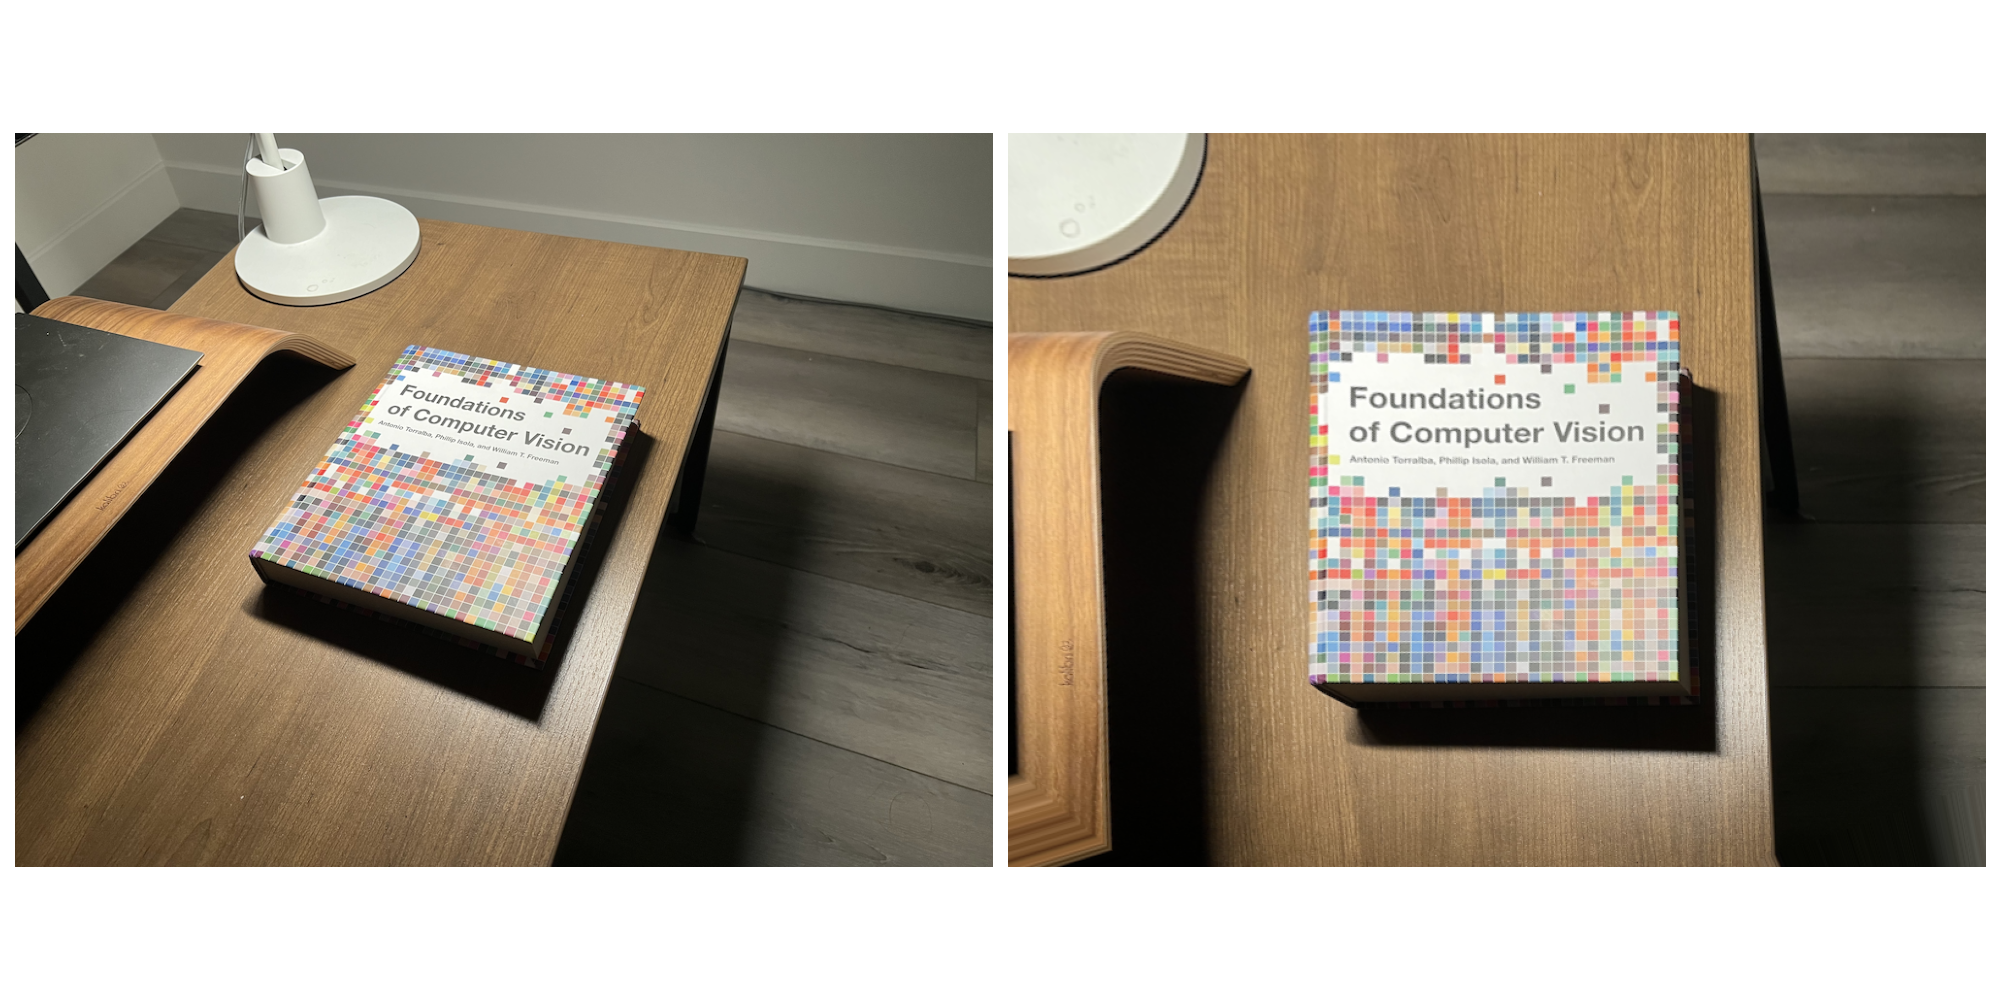
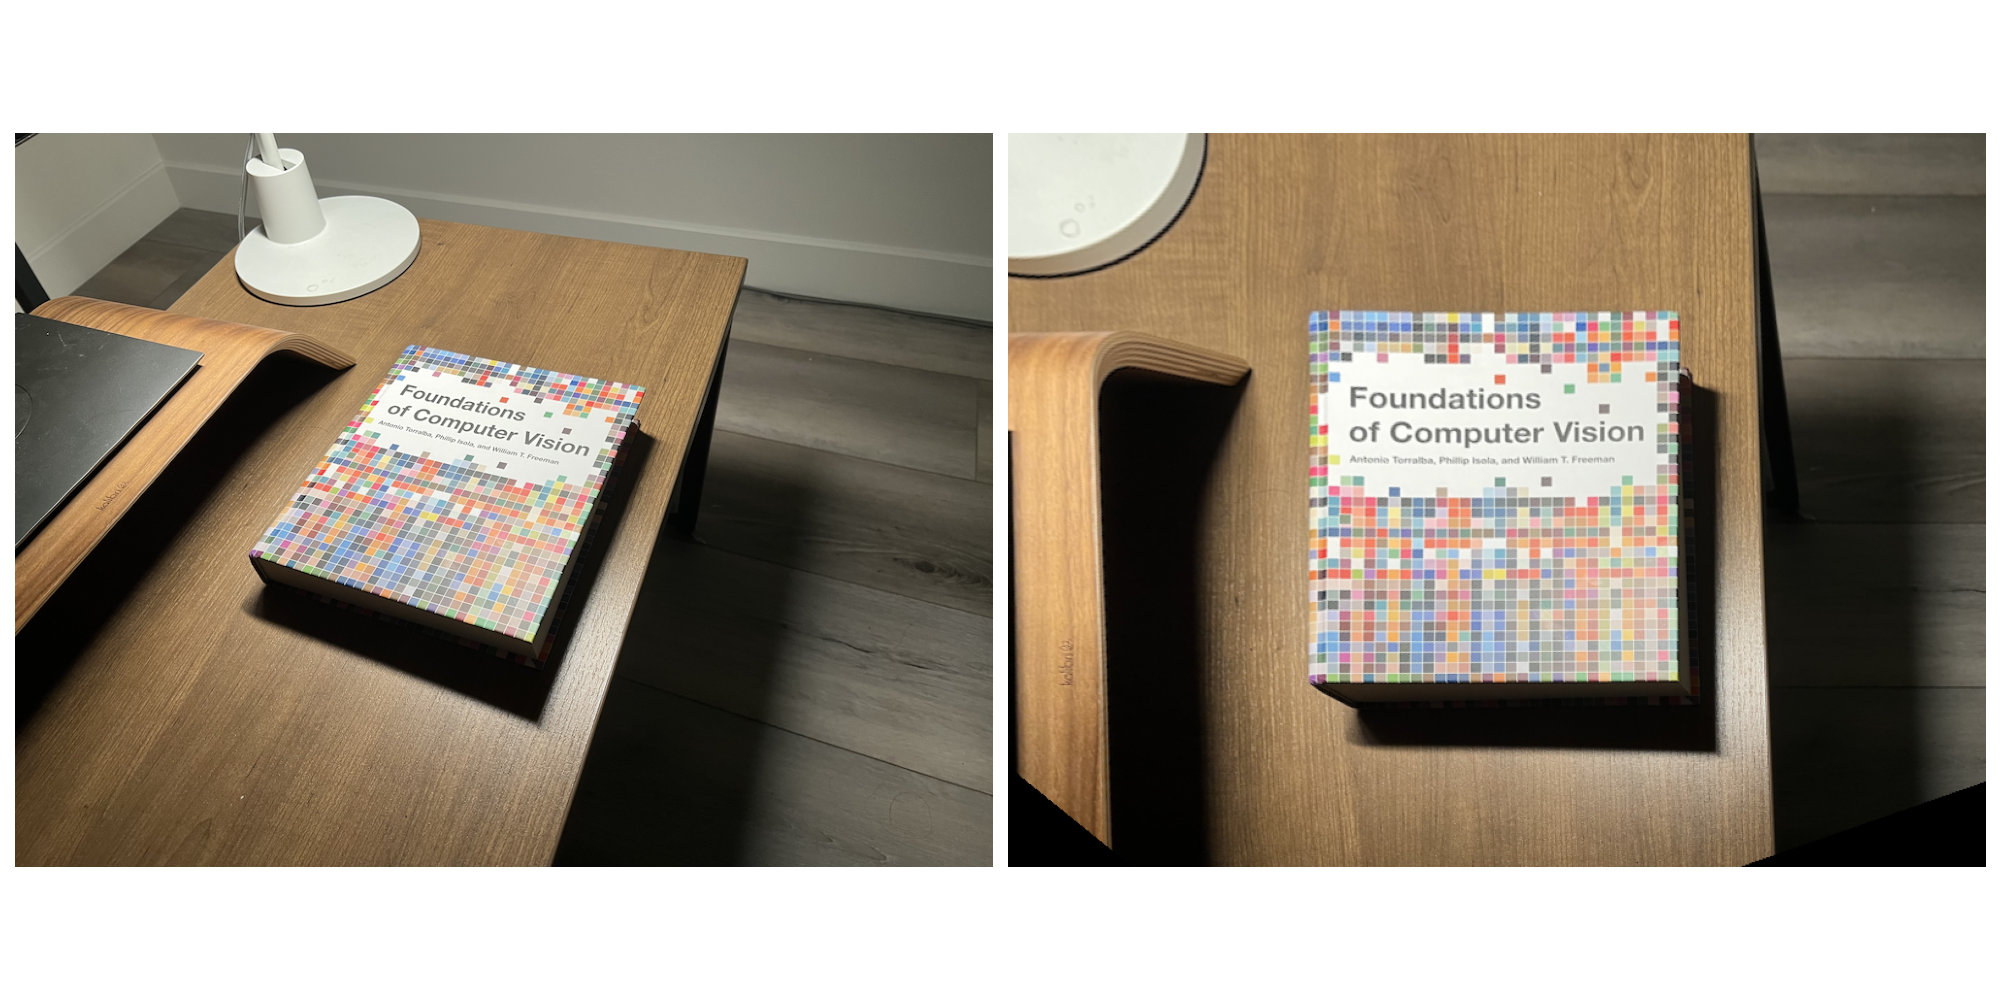
finished proj4 part b w/o bells and whistles

Changed region(s): [[0.961, 0.775, 1.0, 0.868], [0.496, 0.775, 0.558, 0.868], [0.868, 0.837, 0.899, 0.868]]

diff --git a/proj4/index.html b/proj4/index.html
@@ -68,6 +68,8 @@
         <div class="content has-text-justified">
           <p>
             In Part A of the project, I implemented image warping and mosaicing using perspective transformation (aka homography). Specifically, by spacifying image coordinate correspondences between two images, I can compute the 8 dof homography matrix between them, and use inverse warping and 2-band “Laplacian Stack” blending to produce an image mosaic. 
+
+            For Part B, I followed the paper <a href="https://inst.eecs.berkeley.edu/~cs180/fa24/hw/proj4/Papers/MOPS.pdf">Multi-Image Matching using Multi-Scale Oriented Patches” by Brown et al.</a> (with some simplification) and use automatic feature matching & RANSAC to compute the homography matrix between two images.
           </p>
         </div>
       </div>
@@ -131,7 +133,7 @@
         <h2 class="title is-3">Image Rectification</h2>
         <div class="content has-text-justified">
           <p>
-            With these, we are ready to rectify distorted squares/rectangles due to the angle I took the images. Below are two examples of rectification, one for rectifying the book cover for Foundations of Computer Vision, and another for rectifying the US Letter sized paper taped on the entrance of BAIR ... or should I say Berkeley Physics and Chemistry Lab. Note that the rectification is not perfect, and some parts of the rectified images are distorted. 
+            With these, we are ready to rectify distorted squares/rectangles due to the angle I took the images. Below are two examples of rectification, one for rectifying the book cover for Foundations of Computer Vision, and another for rectifying the US Letter sized paper taped on the entrance of BAIR ... or should I say Berkeley Physics and Chemistry Lab. 
           </p>
           <figure>
             <img src="static/images/parta/book_rectification.png"/>
@@ -170,6 +172,154 @@
   </div>
 </section>
 
+<section class="section hero"></section>
+  <div class="container is-max-desktop">
+    <div class="columns is-centered has-text-centered">
+      <div class="column is-four-fifths">
+        <h2 class="title is-3">Harris Corner Detector</h2>
+        <div class="content has-text-justified">
+          <p>
+            Harris corner detector uses the second moment matrix (the outer product of smoothed derivatives from convolving the image with a DoG filter) to find corners in the image. Specifically, we use the determinant of the second moment matrix divided by the trace of the matrix as a measure of cornerness. We threshold the measure with threshold \(10\) and discard corners within \(20\) pixels to the image boundaries. Below the leftmost plots are the harris corners overlaid on the original images. We see there are too many corners (on the magnitude of 10k).
+          </p>
+          <figure>
+            <img src="static/images/partb/balcony_corners.png" style="width: 300%;"/>
+            <figcaption>Corners for Balcony View. Left: Harris Corners, Middle: Maximum Thresholding to 500 corners, Right: Adaptive Non-Maximal Suppression to 500 corners</figcaption>
+            <img src="static/images/partb/shattuck_corners.png" style="width: 300%;"/>
+            <figcaption>Corners for Shattuck View. Left: Harris Corners, Middle: Maximum Thresholding to 500 corners, Right: Adaptive Non-Maximal Suppression to 500 corners</figcaption>
+            <img src="static/images/partb/lounge_corners.png" style="width: 300%;"/>
+            <figcaption>Corners for Lounge View. Left: Harris Corners, Middle: Maximum Thresholding to 500 corners, Right: Adaptive Non-Maximal Suppression to 500 corners</figcaption>
+          </figure>
+        </div>
+      </div>
+    </div>
+  </div>
+</section>
+
+
+<section class="section hero"></section>
+  <div class="container is-max-desktop">
+    <div class="columns is-centered has-text-centered">
+      <div class="column is-four-fifths">
+        <h2 class="title is-3">Adaptive Non-Maximal Suppression</h2>
+        <div class="content has-text-justified">
+          <p>
+            From the middle plots above, we can see that maximum thresholding on the Harris measure of cornerness does not give well-spread distributions of corners: the 500 corners are packed together in clusters. To provide a more uniform distribution of corners, we implement a robust non-maximal Suppression, where for each corner \(i\) we assign \(r_i = \min(|x_i - x_j|), 0.9 \times f(x_j) > f(x_i) \). Here \(x_i\) is the coordinate of corner \(i\) and \(f(x_i)\) is the cornerness measure. We then choose the corners with the largest 500 \(r_i\) values. Intuitively, we are finding the local maxima of cornerness. The rightmost plots above show the results of this process. We see the corners are much more evenly distributed across the image.
+          </p>
+        </div>
+      </div>
+    </div>
+  </div>
+</section>
+
+
+<section class="section hero"></section>
+  <div class="container is-max-desktop">
+    <div class="columns is-centered has-text-centered">
+      <div class="column is-four-fifths">
+        <h2 class="title is-3">Feature Descriptor extraction</h2>
+        <div class="content has-text-justified">
+          <p>
+            For each point of interest (corners filtered through Adaptive Non-Maximal Suppression), we simply extract the \(40 \times 40\) patch centered at each corner. Then, for each patch, we pass through a Gaussian filter (with cutoff frequency corresponding to the Nyquist frequency of the resampled image) and resizes it to \(8 \times 8\) and normalize it to have zero mean and unit variance. Below are some examples of the feature descriptors (unnormalized for visualization purposes).
+          </p>
+          <figure>
+            <img src="static/images/partb/balcony_features.png" style="width: 50%;"/>
+            <figcaption>9 Example Feature Descriptors from Balcony View</figcaption>
+            <img src="static/images/partb/shattuck_features.png" style="width: 50%;"/>
+            <figcaption>9 Example Feature Descriptors from Shattuck View</figcaption>
+            <img src="static/images/partb/lounge_features.png" style="width: 50%;"/>
+            <figcaption>9 Example Feature Descriptors from Lounge View</figcaption>
+          </figure>
+        </div>
+      </div>
+    </div>
+  </div>
+</section>
+
+
+<section class="section hero"></section>
+  <div class="container is-max-desktop">
+    <div class="columns is-centered has-text-centered">
+      <div class="column is-four-fifths">
+        <h2 class="title is-3">Feature Matching</h2>
+        <div class="content has-text-justified">
+          <p>
+            After extracting the feature descriptors, we can match them using the nearest neighbor approach. For each feature descriptor in the first image, we find the 2-nearest neighbor descriptors in the second image using the Euclidean distance. We then calculate the ratio between the error of the first and second nearest neighbor and threshold it with a value of \(0.5\) to filter out poor matches. The figures below show the matches between the three pairs of images. We see that even with these filtering techniques, we still have one false match for the Shattuck view and one for the Lounge view. 
+          </p>
+          <figure>
+            <img src="static/images/partb/balcony_matches.png" style="width: 200%;"/>
+            <figcaption>59 Matches for Balcony View</figcaption>
+            <img src="static/images/partb/shattuck_matches.png" style="width: 200%;"/>
+            <figcaption>29 Matches for Shattuck View</figcaption>
+            <img src="static/images/partb/lounge_matches.png" style="width: 200%;"/>
+            <figcaption>115 Matches for Lounge View</figcaption>
+          </figure>
+        </div>
+      </div>
+    </div>
+  </div>
+</section>
+
+
+<section class="section hero"></section>
+  <div class="container is-max-desktop">
+    <div class="columns is-centered has-text-centered">
+      <div class="column is-four-fifths">
+        <h2 class="title is-3">Robust Homography with RANSAC</h2>
+        <div class="content has-text-justified">
+          <p>
+            To compute a robust homography matrix, we can use 4-point RANSAC (RANdom SAmple Consensus). Specifically, we sample a lot of 4-point combinations from the matches and compute the exact homography for each combination. For each homography matrix, we can then count the number of inliers (matches that are consistent up to 10 pixels with the homography). Finally, we select the largest set of inliners and recompute the final homography matrix using only those inliers. Below are the final automatically generated mosaics using RANSAC. For both the Shattuck and Lounge views, RANSAC discards the mismatched points. 
+          </p>
+          <figure>
+            <img src="static/images/partb/balcony_mosaic_auto.png" style="width: 200%;"/>
+            <figcaption>Auto Mosaic for Balcony View</figcaption>
+            <img src="static/images/partb/shattuck_mosaic_auto.png" style="width: 200%;"/>
+            <figcaption>Auto Mosaic for Shattuck View</figcaption>
+            <img src="static/images/partb/lounge_mosaic_auto.png" style="width: 200%;"/>
+            <figcaption>Auto Mosaic for Lounge View</figcaption>
+          </figure>
+        </div>
+      </div>
+    </div>
+  </div>
+</section>
+
+<section class="section hero"></section>
+  <div class="container is-max-desktop">
+    <div class="columns is-centered has-text-centered">
+      <div class="column is-four-fifths">
+        <h2 class="title is-3">Comparison between Manual and Auto Stitching</h2>
+        <div class="content has-text-justified">
+          <p>
+            We can see below that auto stitching produces results that are pretty similar to using manually annotated correspondences. 
+          </p>
+          <figure>
+            <img src="static/images/partb/balcony_comparison.png" style="width: 200%;"/>
+            <figcaption>Comparison between Mosaics for Balcony View. Left: Manual, Right: Auto</figcaption>
+            <img src="static/images/partb/shattuck_comparison.png" style="width: 200%;"/>
+            <figcaption>Comparison between Mosaics for Shattuck View. Left: Manual, Right: Auto</figcaption>
+            <img src="static/images/partb/lounge_comparison.png" style="width: 200%;"/>
+            <figcaption>Comparison between Mosaics for Lounge View. Left: Manual, Right: Auto</figcaption>
+          </figure>
+        </div>
+      </div>
+    </div>
+  </div>
+</section>
+
+<section class="section hero"></section>
+  <div class="container is-max-desktop">
+    <div class="columns is-centered has-text-centered">
+      <div class="column is-four-fifths">
+        <h2 class="title is-3">What have you learned?</h2>
+        <div class="content has-text-justified">
+          <p>
+            The pipeline (detecting and extracting features, matching them, and using RANSAC to filter outliers) we have implemented is widely used (e.g. in SLAM), and implementing it helped me understand how it works. I think this will better equip me for the final project, where I plan to do SLAM/3D reconstruction.
+          </p>
+        </div>
+      </div>
+    </div>
+  </div>
+</section>
 
 <footer class="footer">
   <div class="container">
